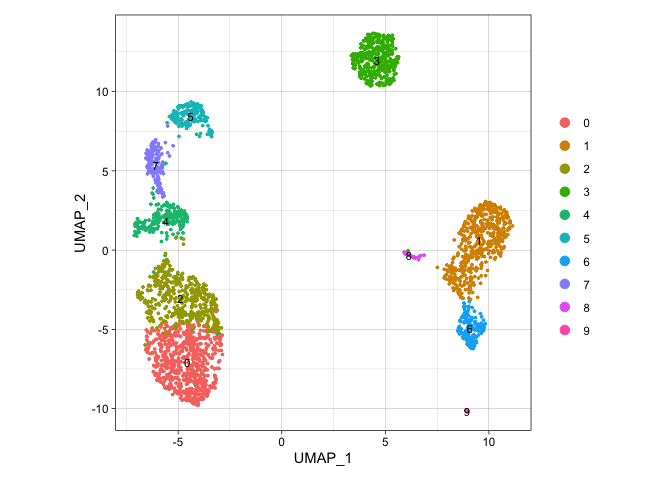
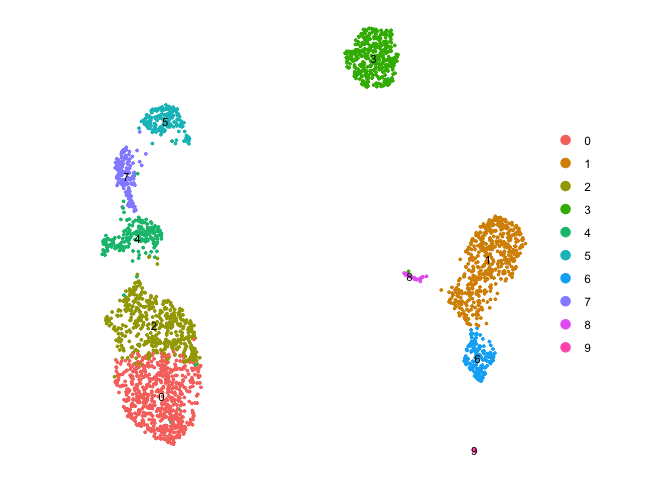
python/scanpy

diff --git a/README.md b/README.md
@@ -11,9 +11,12 @@ using large-language models (LLMs).
 - **Privacy**: Operates locally, ensuring no data leaks.
 - **Comprehensive Analysis**: Considers negative genes.
 - **Speed**: Efficient processing.
-- **Extensive Training**: Depends on vast data from Internet.
+- **Extensive Reporting**: Generates customized reports.
 
 ceLLama is ideal for quick and preliminary cell type checks!
+
+> \[!NOTE\] Check the [tutorial](ceLLama/pbmc2700.ipynb) for Scanpy
+> example.
 
 ## Installation
 
@@ -53,19 +56,18 @@ library(httr)
 pbmc.data <- Read10X("../../Downloads/filtered_gene_bc_matrices/hg19/")
 
 pbmc <- CreateSeuratObject(counts = pbmc.data, project = "pbmc3k", min.cells = 3, min.features = 200)
-
 pbmc[["percent.mt"]] <- PercentageFeatureSet(pbmc, pattern = "^MT-")
-
 pbmc <- subset(pbmc, subset = nFeature_RNA > 200 & nFeature_RNA < 2500 & percent.mt < 5)
 
 # note that you can chain multiple commands together with %>%
-pbmc <- SCTransform(pbmc, verbose = F) %>%
+pbmc <- pbmc %>% 
+    SCTransform(verbose = F) %>%
     RunPCA(verbose = F) %>%
     FindNeighbors(dims = 1:10, verbose = F) %>%
     FindClusters(resolution = 0.5, verbose = F) %>% 
     RunUMAP(dims = 1:10, verbose = F)
 
-DimPlot(pbmc, label = T, label.size = 3) + theme_linedraw() + theme(aspect.ratio = 1)
+DimPlot(pbmc, label = T, label.size = 3) + theme_void() + theme(aspect.ratio = 1)
 ```
 
 ![](README_files/figure-gfm/pbmc2700-1.png)<!-- -->
@@ -83,7 +85,6 @@ pbmc.markers.list <- split(pbmc.markers, pbmc.markers$cluster)
 Run ceLLama:
 
 ``` r
-# run cellama!
 # set seed, make temperature 0 for reproducible results
 library(ceLLama)
 
@@ -110,6 +111,9 @@ res <- ceLLama(pbmc.markers.list, temperature = 0, seed = 101)
 
     ## >> Response: Myeloid cells (e.g., neutrophils or monocytes)
 
+> \[!TIP\] Increase `temperature` to diversify outputs. Set different
+> `base_prompt` to customize annotations.
+
 Transfer the labels:
 
 ``` r
@@ -119,7 +123,7 @@ annotations <- map_chr(res, 1)
 names(annotations) <- levels(pbmc)
 pbmc <- RenameIdents(pbmc, annotations)
 
-DimPlot(pbmc, label = T, repel = T, label.size = 3) + theme_linedraw() + theme(aspect.ratio = 1)
+DimPlot(pbmc, label = T, repel = T, label.size = 3) + theme_void() + theme(aspect.ratio = 1)
 ```
 
 ![](README_files/figure-gfm/transfer%20annotations-1.png)<!-- -->
@@ -143,7 +147,7 @@ View the full report [here](report.html).
 
 ## Disclaimer
 
-> LLMs make mistakes, please check important info.
+> \[!IMPORTANT\] LLMs make mistakes, please check important info.
 
 ## License
 
